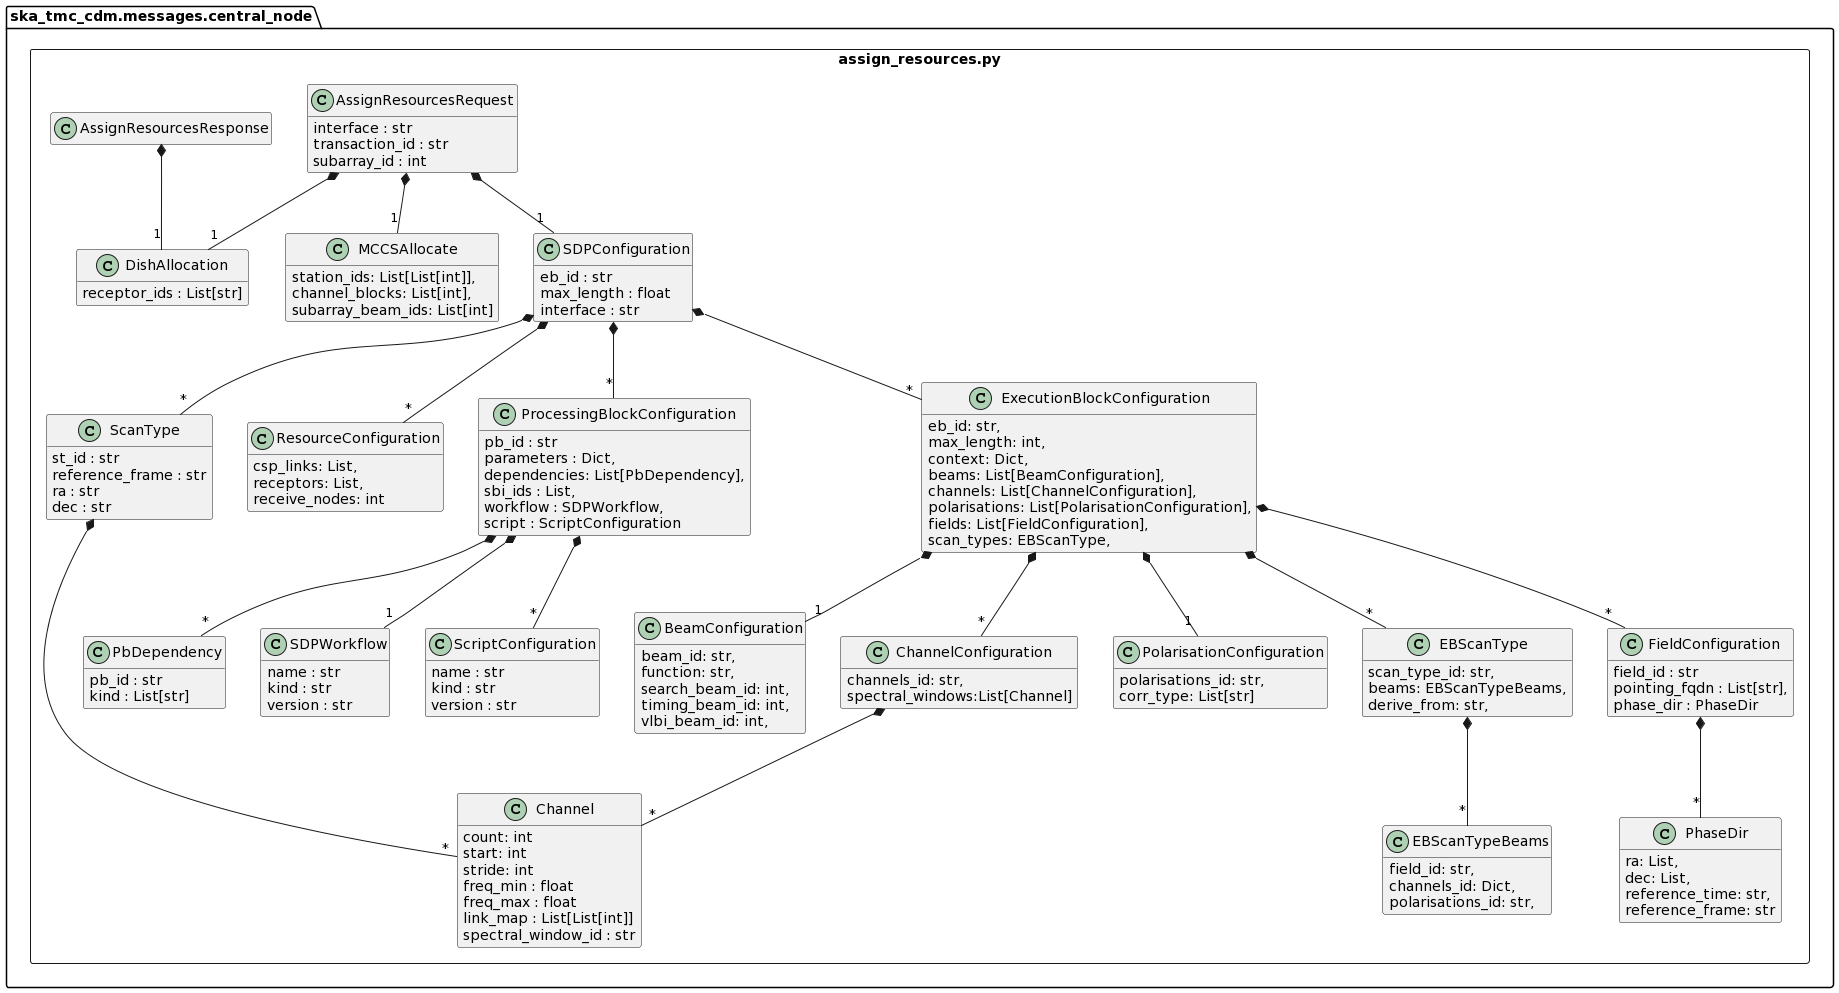
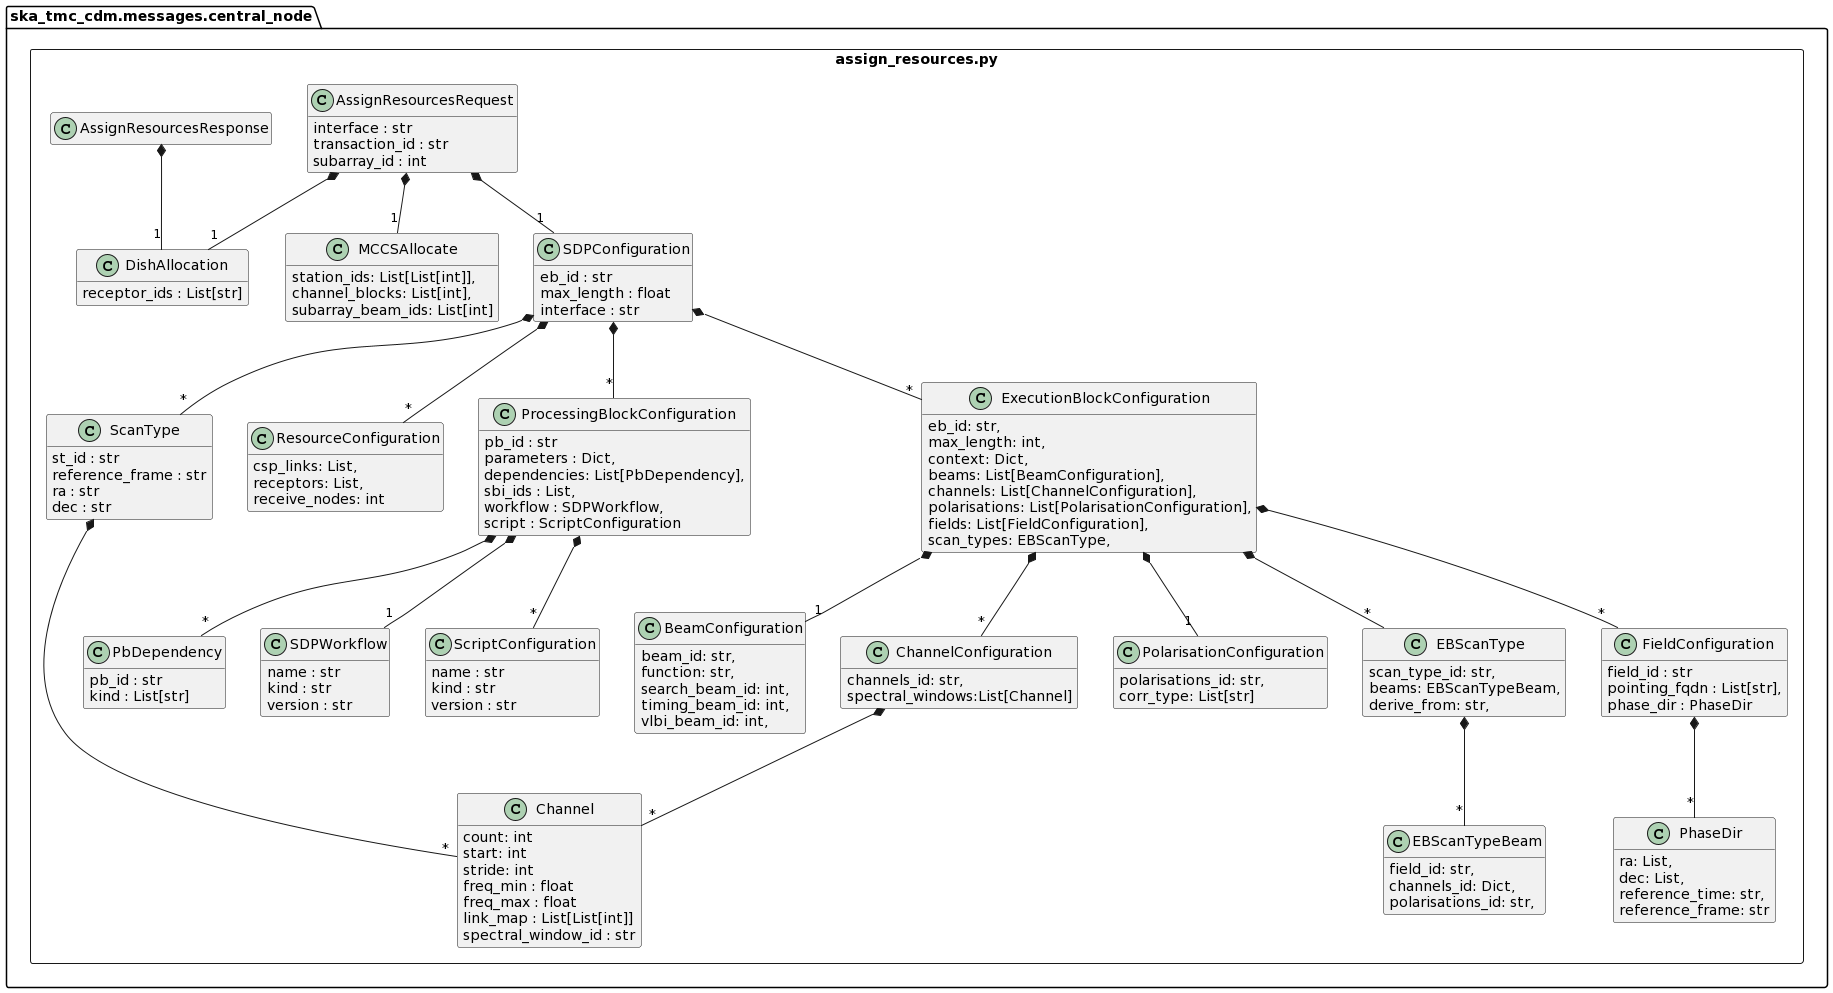
NAK-111 Changed EBScanTypeBeams to EBScanTypeBeam for schema and message classes

diff --git a/tests/unit/ska_tmc_cdm/schemas/central_node/test_sdp.py b/tests/unit/ska_tmc_cdm/schemas/central_node/test_sdp.py
@@ -1,7 +1,7 @@
 from ska_tmc_cdm.schemas.central_node.sdp import (
     BeamConfigurationSchema,
     ChannelConfigurationSchema,
-    EBScanTypeBeamsSchema,
+    EBScanTypeBeamSchema,
     EBScanTypeSchema,
     ExecutionBlockConfigurationSchema,
     FieldConfigurationSchema,
@@ -214,7 +214,7 @@ VALID_CHANNELS_JSON_PI16 = """
         }
     ]"""
 
-VALID_BEAMS_JSON_PI16 = """
+VALID_BEAM_JSON_PI16 = """
     [ 
         {
           "beam_id": "vis0",
@@ -824,7 +824,7 @@ VALID_SDP_MINIMAL_JSON_PI16 = """
 }
 """
 
-VALID_BEAMS_VIS0_JSON_PI16 = """{
+VALID_BEAM_VIS0_JSON_PI16 = """{
                   "polarisations_id": "all",
                   "channels_id": "vis_channels"
                }"""
@@ -872,16 +872,16 @@ def test_validate_serialization_and_deserialization_ebscantype_using_schema_clas
     assert_json_is_equal(VALID_SCAN_TYPES_JSON_PI16, serialized_scan_types_config)
 
 
-def test_validate_serialization_and_deserialization_beams_vis0_using_schema_class():
+def test_validate_serialization_and_deserialization_beam_vis0_using_schema_class():
     """
-    Verifies that the EBScanType Beams schema marshal and Unmarshal works correctly
+    Verifies that the EBScanType Beam schema marshal and Unmarshal works correctly
     """
-    scan_types_beams_config = EBScanTypeBeamsSchema().loads(VALID_BEAMS_VIS0_JSON_PI16)
-    serialized_scan_types_beams_config = EBScanTypeBeamsSchema().dumps(
-        scan_types_beams_config
+    scan_types_beam_config = EBScanTypeBeamSchema().loads(VALID_BEAM_VIS0_JSON_PI16)
+    serialized_scan_types_beam_config = EBScanTypeBeamSchema().dumps(
+        scan_types_beam_config
     )
 
-    assert_json_is_equal(VALID_BEAMS_VIS0_JSON_PI16, serialized_scan_types_beams_config)
+    assert_json_is_equal(VALID_BEAM_VIS0_JSON_PI16, serialized_scan_types_beam_config)
 
 
 def test_validate_serialization_and_deserialization_executionblockconfiguration_using_schema_class():
@@ -904,10 +904,10 @@ def test_validate_serialization_and_deserialization_beamconfiguration_using_sche
     """
     Verifies that the BeamConfiguration schema marshal and Unmarshal works correctly
     """
-    beams_config = BeamConfigurationSchema(many=True).loads(VALID_BEAMS_JSON_PI16)
-    serialized_beams_config = BeamConfigurationSchema(many=True).dumps(beams_config)
+    beam_config = BeamConfigurationSchema(many=True).loads(VALID_BEAM_JSON_PI16)
+    serialized_beam_config = BeamConfigurationSchema(many=True).dumps(beam_config)
 
-    assert_json_is_equal(VALID_BEAMS_JSON_PI16, serialized_beams_config)
+    assert_json_is_equal(VALID_BEAM_JSON_PI16, serialized_beam_config)
 
 
 def test_validate_serialization_and_deserialization_channelconfiguration_using_schema_class():

diff --git a/tests/unit/ska_tmc_cdm/messages/central_node/test_sdp.py b/tests/unit/ska_tmc_cdm/messages/central_node/test_sdp.py
@@ -7,7 +7,7 @@ from ska_tmc_cdm.messages.central_node.sdp import (
     Channel,
     ChannelConfiguration,
     EBScanType,
-    EBScanTypeBeams,
+    EBScanTypeBeam,
     FieldConfiguration,
     PbDependency,
     PhaseDir,
@@ -564,30 +564,30 @@ def test_ebscantype_equals_not_equal_to_other_objects():
     assert eb_scan_type != 1
 
 
-def test_ebscantypebeams_equals():
+def test_ebscantypebeam_equals():
     """
-    Verify that EBScanTypeBeams objects are considered equal when they have:
+    Verify that EBScanTypeBeam objects are considered equal when they have:
      - the same field_id
      - the same channels_id
      - the same polarisations_id
     """
-    eb_scan_type_beam1 = EBScanTypeBeams("science-target", "vis_channels", "all")
-    eb_scan_type_beam2 = EBScanTypeBeams("science-target", "vis_channels", "all")
+    eb_scan_type_beam1 = EBScanTypeBeam("science-target", "vis_channels", "all")
+    eb_scan_type_beam2 = EBScanTypeBeam("science-target", "vis_channels", "all")
 
     assert eb_scan_type_beam1 == eb_scan_type_beam2
 
-    assert eb_scan_type_beam1 != EBScanTypeBeams("pks1934-638", "vis_channels", "all")
-    assert eb_scan_type_beam2 != EBScanTypeBeams("pks1934-638", "vis_channels", "all")
+    assert eb_scan_type_beam1 != EBScanTypeBeam("pks1934-638", "vis_channels", "all")
+    assert eb_scan_type_beam2 != EBScanTypeBeam("pks1934-638", "vis_channels", "all")
 
 
-def test_ebscantypebeams_equals_not_equal_to_other_objects():
+def test_ebscantypebeam_equals_not_equal_to_other_objects():
 
     """
-    Verify that EBScanTypeBeams objects are not considered equal to objects of
+    Verify that EBScanTypeBeam objects are not considered equal to objects of
     other types.
     """
-    eb_scan_type_beams = EBScanTypeBeams("science-target", "vis_channels", "all")
-    assert eb_scan_type_beams != 1
+    eb_scan_type_beam = EBScanTypeBeam("science-target", "vis_channels", "all")
+    assert eb_scan_type_beam != 1
 
 
 def test_script_equals():

diff --git a/src/ska_tmc_cdm/schemas/central_node/sdp.py b/src/ska_tmc_cdm/schemas/central_node/sdp.py
@@ -11,7 +11,7 @@ from ska_tmc_cdm.messages.central_node.sdp import (
     Channel,
     ChannelConfiguration,
     EBScanType,
-    EBScanTypeBeams,
+    EBScanTypeBeam,
     ExecutionBlockConfiguration,
     FieldConfiguration,
     PbDependency,
@@ -41,7 +41,7 @@ __all__ = [
     "PhaseDirSchema",
     "ResourceConfigurationSchema",
     "ScriptConfigurationSchema",
-    "EBScanTypeBeamsSchema",
+    "EBScanTypeBeamSchema",
     "EBScanTypeSchema",
 ]
 
@@ -436,9 +436,9 @@ class FieldConfigurationSchema(Schema):
         return FieldConfiguration(**data)
 
 
-class EBScanTypeBeamsSchema(Schema):
+class EBScanTypeBeamSchema(Schema):
     """
-    Marsmallow class for the EBScanTypeBeams class
+    Marsmallow class for the EBScanTypeBeam class
     """
 
     field_id = fields.String()
@@ -459,23 +459,23 @@ class EBScanTypeBeamsSchema(Schema):
     @post_load
     def create_ebscantypebeams_config(self, data, **_):  # pylint: disable=no-self-use
         """
-        Convert parsed JSON back into a EBScanTypeBeams object.
+        Convert parsed JSON back into a EBScanTypeBeam object.
 
         :param data: Marshmallow-provided dict containing parsed JSON values
         :param _: kwargs passed by Marshmallow
         :return: SDPConfiguration object populated from data
         """
-        return EBScanTypeBeams(**data)
+        return EBScanTypeBeam(**data)
 
 
 class EBScanTypeSchema(Schema):
     """
-    Marsmallow class for the EBScanTypeBeams class
+    Marsmallow class for the EBScanTypeBeam class
     """
 
     scan_type_id = fields.String()
     beams = fields.Dict(
-        keys=fields.String(), values=fields.Nested(EBScanTypeBeamsSchema)
+        keys=fields.String(), values=fields.Nested(EBScanTypeBeamSchema)
     )
     derive_from = fields.String()
 

diff --git a/src/ska_tmc_cdm/messages/central_node/sdp.py b/src/ska_tmc_cdm/messages/central_node/sdp.py
@@ -20,7 +20,7 @@ __all__ = [
     "ExecutionBlockConfiguration",
     "ResourceConfiguration",
     "ScriptConfiguration",
-    "EBScanTypeBeams",
+    "EBScanTypeBeam",
     "EBScanType",
 ]
 
@@ -395,9 +395,9 @@ class FieldConfiguration:
         )
 
 
-class EBScanTypeBeams:
+class EBScanTypeBeam:
     """
-    Class to hold EBScanTypeBeams Configuration
+    Class to hold EBScanTypeBeam Configuration
     """
 
     def __init__(
@@ -407,7 +407,7 @@ class EBScanTypeBeams:
         polarisations_id: str = None,
     ) -> object:
         """
-        Create a new EBScanTypeBeams object.
+        Create a new EBScanTypeBeam object.
 
         :param field_id: field_id
         :param channels_id: channels_id
@@ -418,7 +418,7 @@ class EBScanTypeBeams:
         self.polarisations_id = polarisations_id
 
     def __eq__(self, other):
-        if not isinstance(other, EBScanTypeBeams):
+        if not isinstance(other, EBScanTypeBeam):
             return False
         return (
             self.field_id == other.field_id
